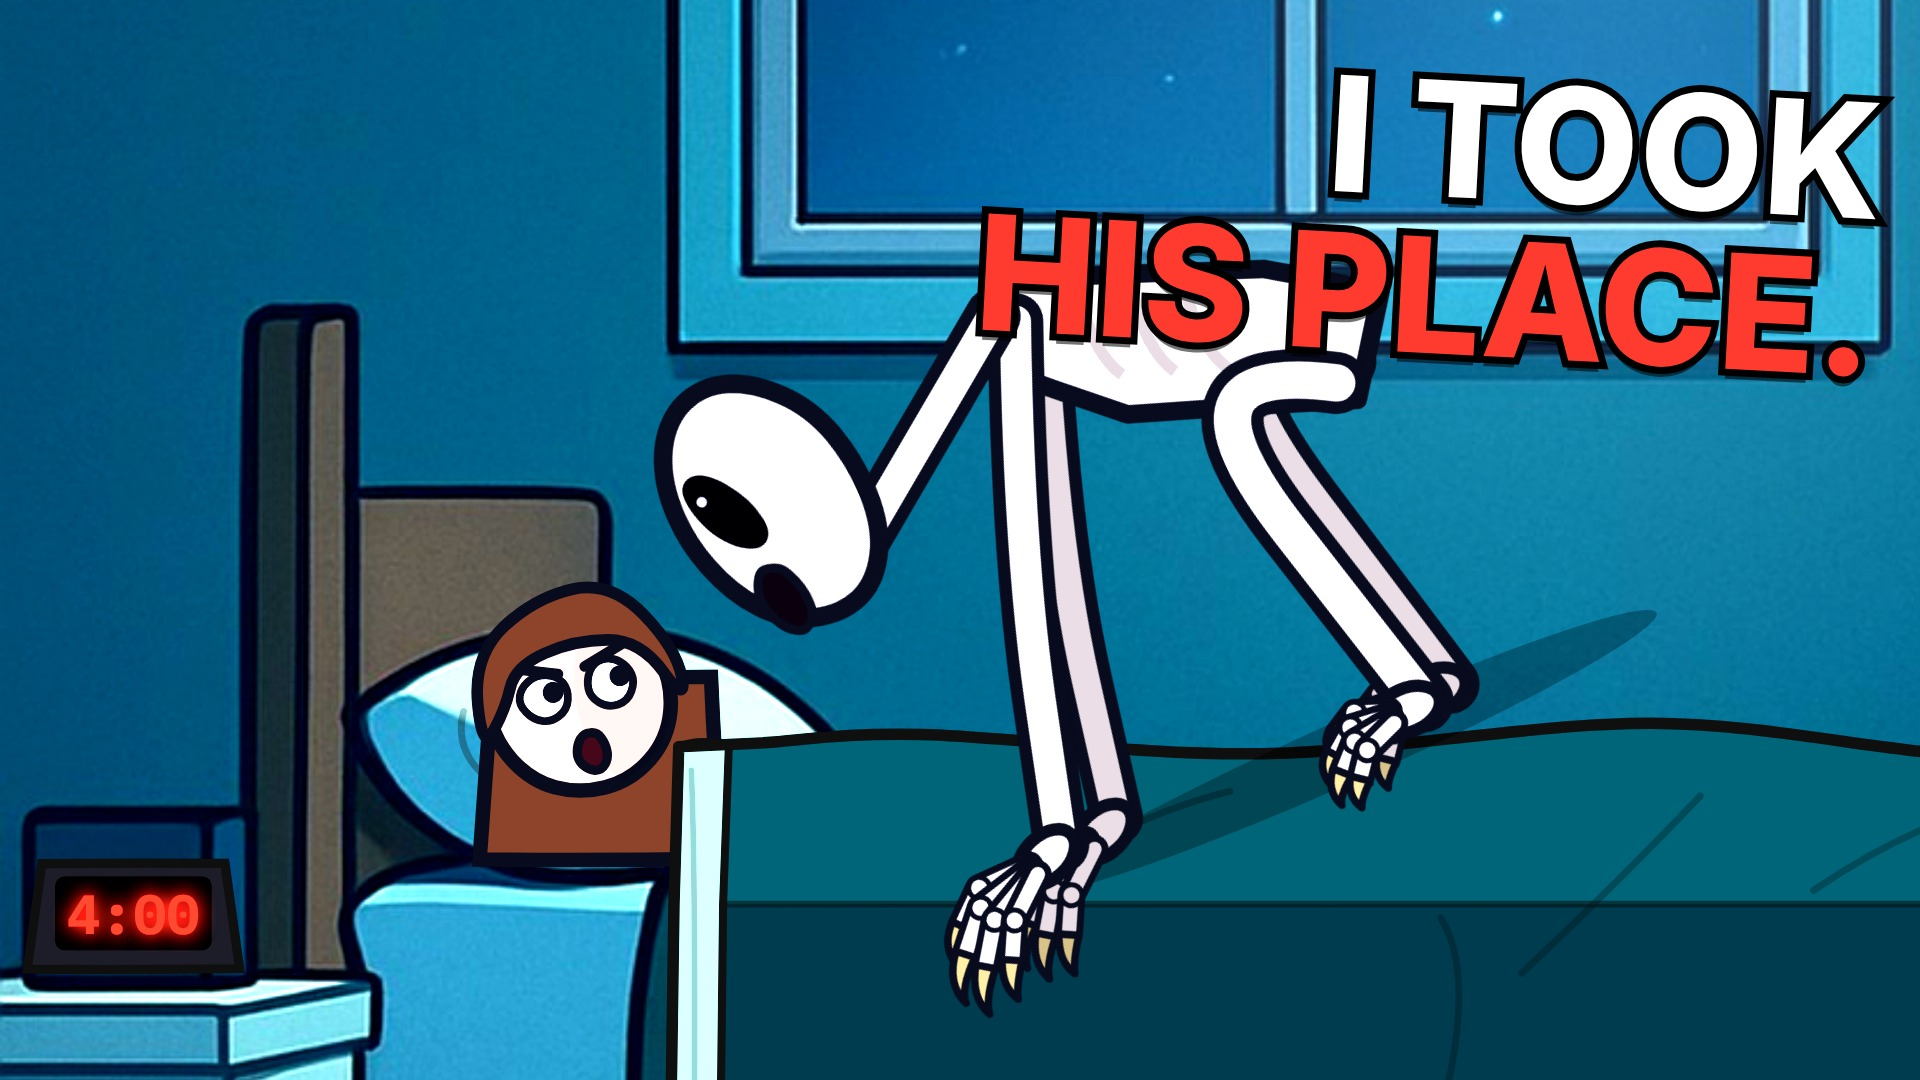
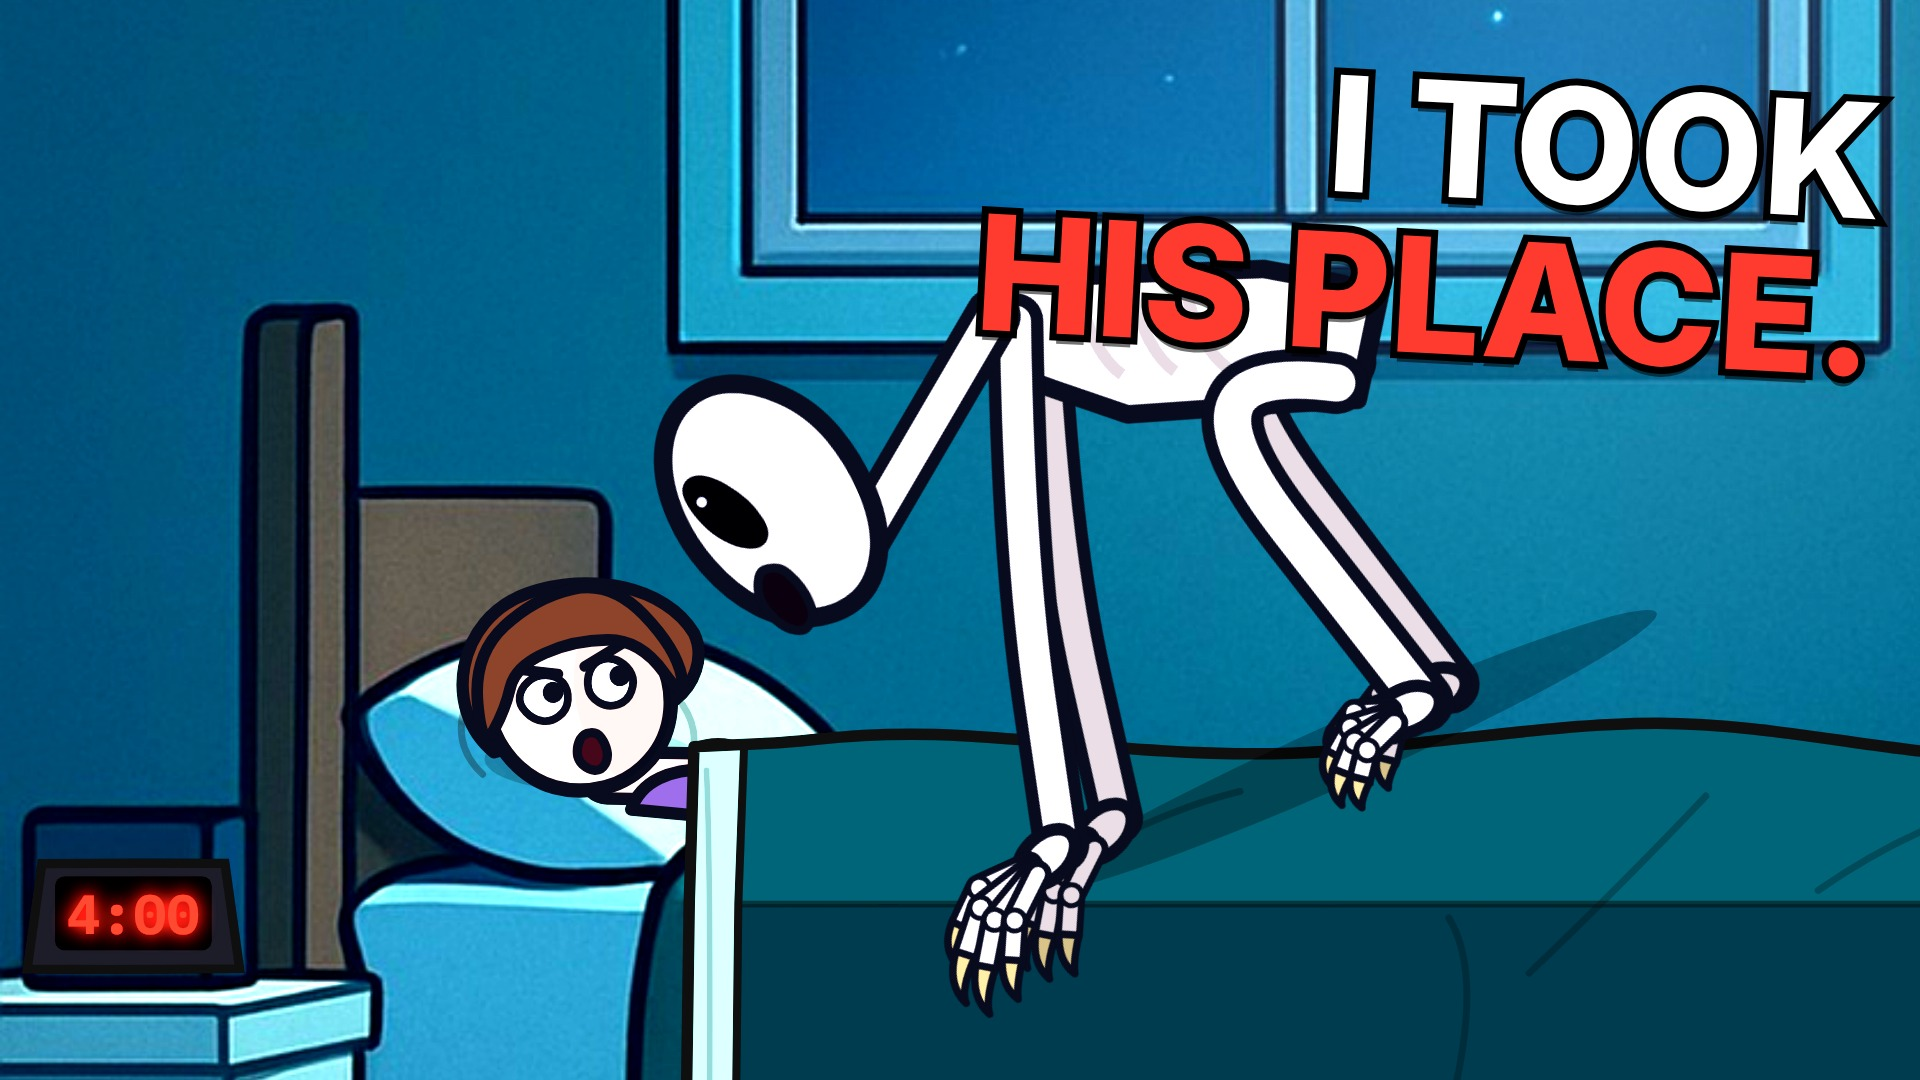
The Rake (stick): sleepers keep only the hair on the head; grown-up Lily shows neck and shoulder
- New StickPerson hairCapOnly: lying on a pillow, no ponytail or hair hanging beside the head
  (Lily's ponytail, Mom's bob sides); the hair on the head is unchanged.
- Grown-up Lily: her long hair is fanned out on the pillow behind her head, and her neck and the
  top of her plum sweater show between her chin and the blanket.

Claude-Session: https://claude.ai/code/session_01HYgoxans3AHT78NQRMkcgm

diff --git a/rake-stick/src/stick/bed.tsx b/rake-stick/src/stick/bed.tsx
@@ -68,11 +68,12 @@ const Neck: React.FC<{a: [number, number]; b: [number, number]; w: number; skin:
 	</g>
 );
 
-/** the sleeper's head on the pillow: the stick figure drawn head-only, so the head and its hair keep their usual
- *  style exactly (nothing is clipped), with no body, arms or legs */
-const PillowHead: React.FC<{is: AnyPerson; px: number; hy: number; s: number; child: boolean; frame: number; p: Record<string, unknown>; id: string; light?: Light}> = ({is: P, px, hy, s, child, frame, p, light}) => (
+/** the sleeper's head on the pillow: the stick figure drawn head-only, so the face and the hair on the head keep their
+ *  usual style. part='front' draws the face with only the hair on the head (no ponytail or hair hanging behind it);
+ *  part='back' draws only the hair hanging behind the head (for long hair kept on the pillow, under the neck). */
+const PillowHead: React.FC<{is: AnyPerson; px: number; hy: number; s: number; child: boolean; frame: number; p: Record<string, unknown>; light?: Light; part?: 'front' | 'back'}> = ({is: P, px, hy, s, child, frame, p, light, part = 'front'}) => (
 	<Tint light={light}>
-		<P x={px} y={hy + 262 * (child ? 0.62 : 1) * s} s={s} frame={frame} tilt={-14} arms="down" noArms headOnly {...p} />
+		<P x={px} y={hy + 262 * (child ? 0.62 : 1) * s} s={s} frame={frame} tilt={-14} arms="down" noArms headOnly hairCapOnly={part === 'front'} hairBackOnly={part === 'back'} {...p} />
 	</Tint>
 );
 
@@ -97,7 +98,11 @@ export const LieInBed: React.FC<{
 	/** false: only the head */
 	blanket?: boolean;
 	dy?: number;
-}> = ({b, is, px, s, child = false, light, frame, p = {}, id, wob = 0, skin = '#f1cfae', blanket = true, dy = 0}) => {
+	/** long hair: spread out on the pillow behind the head, in this colour */
+	longHair?: string;
+	/** show the top of the shoulder (in this shirt colour) between the neck and the blanket */
+	shoulder?: string;
+}> = ({b, is, px, s, child = false, light, frame, p = {}, id, wob = 0, skin = '#f1cfae', blanket = true, dy = 0, longHair, shoulder}) => {
 	const R = 36 * (child ? 1.08 : 1) * s;
 	const hy = b.pillowY - 30 + dy;
 	const hcx = px - 0.24 * R;
@@ -110,7 +115,7 @@ export const LieInBed: React.FC<{
 	const Bs = R * (child ? 1 : 1.45); // body size
 	// the neck leaves the chin and runs (lying down) toward the feet, into the blanket
 	const neckY = hy + 0.86 * R;
-	const xe = px + (child ? 0.67 : 0.8) * R; // the blanket's head end: just past the chin, so only a sliver of neck shows
+	const xe = px + (child ? 0.67 : 0.8) * R + (shoulder ? 0.16 * R : 0); // the blanket's head end: just past the chin, so only a sliver of neck shows (a little more when the shoulder shows)
 	const top0: [number, number] = [xe, neckY - 0.34 * R];
 	const foot = xR - 40;
 	const L = foot - xe;
@@ -148,12 +153,35 @@ export const LieInBed: React.FC<{
 	return (
 		<g>
 			<PillowDent cx={hcx} cy={hcy} R={R} />
+			{longHair ? (
+				<Tint light={light}>
+					{/* long hair fanned out on the pillow, above and behind the head */}
+					<path
+						d={`M${hcx - 0.9 * R},${hcy + 0.55 * R} C${hcx - 1.45 * R},${hcy + 0.1 * R} ${hcx - 1.3 * R},${hcy - 0.85 * R} ${hcx - 0.55 * R},${hcy - 1.12 * R} C${hcx + 0.1 * R},${hcy - 1.35 * R} ${hcx + 0.9 * R},${hcy - 1.2 * R} ${hcx + 1.2 * R},${hcy - 0.7 * R} C${hcx + 1.32 * R},${hcy - 0.45 * R} ${hcx + 1.2 * R},${hcy - 0.15 * R} ${hcx + 1.0 * R},${hcy} Z`}
+						fill={longHair}
+						stroke={INK}
+						strokeWidth={lw}
+						strokeLinejoin="round"
+					/>
+				</Tint>
+			) : null}
 			{blanket ? (
 				<Tint light={light}>
 					<Neck a={[px + 0.05 * R, neckY - 0.04 * R]} b={[xe + 0.25 * R, neckY - 0.02 * R]} w={0.36 * R} skin={skin} lw={lw} />
 				</Tint>
 			) : null}
-			<PillowHead is={is} px={px} hy={hy} s={s} child={child} frame={frame} p={p} id={`${id}_head`} light={light} />
+			{blanket && shoulder ? (
+				<Tint light={light}>
+					<path
+						d={`M${px + 0.3 * R},${neckY + 0.32 * R} C${px + 0.4 * R},${neckY + 0.02 * R} ${xe - 0.25 * R},${neckY - 0.12 * R} ${xe + 0.2 * R},${neckY - 0.1 * R} L${xe + 0.2 * R},${neckY + 0.4 * R} Z`}
+						fill={shoulder}
+						stroke={INK}
+						strokeWidth={lw}
+						strokeLinejoin="round"
+					/>
+				</Tint>
+			) : null}
+			<PillowHead is={is} px={px} hy={hy} s={s} child={child} frame={frame} p={p} light={light} />
 			{blanket ? (
 				<g>
 					<path d={topSurface} fill={b.topCol ?? b.quiltCols[0]} />
@@ -225,11 +253,11 @@ export const ParentsBed: React.FC<{
 			<Tint light={light}>
 				<Neck a={[mx + 0.05 * mR, my + 0.84 * mR]} b={[mx + 0.62 * mR, my + 1.18 * mR]} w={0.36 * mR} skin={momSkin} lw={6} />
 			</Tint>
-			<PillowHead is={mom} px={mx} hy={my} s={1.3} child={false} frame={frame} p={momP} id="pbMom" light={light} />
+			<PillowHead is={mom} px={mx} hy={my} s={1.3} child={false} frame={frame} p={momP} light={light} />
 			<Tint light={light}>
 				<Neck a={[lx + 0.05 * lR, ly + 0.84 * lR]} b={[lx + 0.55 * lR, ly + 1.12 * lR]} w={0.36 * lR} skin={lilySkin} lw={7} />
 			</Tint>
-			<PillowHead is={lily} px={lx} hy={ly} s={1.6} child frame={frame} p={lilyP} id="pbLily" light={light} />
+			<PillowHead is={lily} px={lx} hy={ly} s={1.6} child frame={frame} p={lilyP} light={light} />
 			{/* the sheet turned down along the quilt's top edge, over both necks */}
 			<path d={sheetD} fill={SHEET} />
 			<path d={`M${sheetTop[0][0]},${sheetTop[0][1]}${smoothThrough(sheetTop)}`} fill="none" stroke={INK} strokeWidth={4.5} strokeLinecap="round" />

diff --git a/rake-stick/src/components/characters/StickPerson.tsx b/rake-stick/src/components/characters/StickPerson.tsx
@@ -131,6 +131,10 @@ export interface StickProps {
 	noArms?: boolean;
 	/** draw only the head with its full hair - no body, arms, legs or shadow (a sleeper whose body is under a blanket) */
 	headOnly?: boolean;
+	/** only the hair on the head itself: no ponytail or hair hanging behind the head (a sleeper on a pillow) */
+	hairCapOnly?: boolean;
+	/** with headOnly: draw ONLY the hair hanging behind the head (so a neck can be drawn between it and the face) */
+	hairBackOnly?: boolean;
 }
 
 const INK = '#141414';
@@ -775,6 +779,7 @@ export const StickPerson: React.FC<StickProps> = (p) => {
 	);
 	const farArm = side && walking;
 	const lapArms = (sitting && !back && (p.arms === undefined || p.arms === 'folded' || p.arms === 'lap')) || (floor && !back);
+	if (p.hairCapOnly) hairBack.length = 0;
 	const backArms = p.noArms ? [] : back || farArm ? (farArm ? [armEl(L, 0, true)] : [armEl(L, 0), armEl(R, 1)]) : [];
 	const frontArms = p.noArms || back ? [] : farArm ? [armEl(R, 1)] : [armEl(L, 0), armEl(R, 1)];
 
@@ -970,6 +975,12 @@ export const StickPerson: React.FC<StickProps> = (p) => {
 		</g>
 	);
 
+	if (p.headOnly && p.hairBackOnly)
+		return (
+			<g transform={`translate(${x},${y}) scale(${flip ? -s : s},${s})`} opacity={opacity}>
+				<g transform={`rotate(${bodyRot} 0 ${hipY})`}>{hairBack}</g>
+			</g>
+		);
 	if (p.headOnly)
 		return (
 			<g transform={`translate(${x},${y}) scale(${flip ? -s : s},${s})`} opacity={opacity}>

diff --git a/rake-stick/src/scenes/LastNight.tsx b/rake-stick/src/scenes/LastNight.tsx
@@ -70,7 +70,7 @@ export const LastNight: React.FC = () => {
 		const lilyP = {eyes: 'wide', brows: close ? 'angry' : 'worried', mouth: t > at('face') ? 'o' : 'flat', look: coming ? [1, -0.4] : [0.6, -0.8], idle: t < t48};
 		// the blanket at her feet presses down and moves
 		const press = s.tag === 'climb' && t < t49 + 0.5 ? Math.sin((t - t48) * 7) * 5 * ramp(t, t48 + 0.3, t48 + 0.8) : 0;
-		const her = <LieInBed b={SB} is={LilyAdult} px={262} s={1.15} frame={f} id="lily" skin={PAL.lilyAdult.skin} wob={press} p={lilyP} />;
+		const her = <LieInBed b={SB} is={LilyAdult} px={262} s={1.15} frame={f} id="lily" skin={PAL.lilyAdult.skin} longHair={PAL.lilyAdult.hair} shoulder={PAL.lilyAdult.shirt} wob={press} p={lilyP} />;
 		if (s.tag !== 'climb') return <g>{moon}{clock}{her}</g>;
 		// it rises at the foot of the bed, climbs on, and crawls up the length of the bed to her face
 		const rise = ramp(t, T('narrator_048_blanket', 0.55), T('narrator_049_climbed', 0.12));

diff --git a/rake-stick/src/dev/Thumbs.tsx b/rake-stick/src/dev/Thumbs.tsx
@@ -68,7 +68,7 @@ export const Thumb: React.FC<{v: 'A' | 'B' | 'C'}> = ({v}) => {
 				<Stage set="sonroom_night" z={2.3} f={[400, 600]} t={0}>
 					<Glow cx={720} cy={300} r={460} color="#a9d2e6" k={0.45} />
 					<BedClock x={GEO.sonRoom.clock[0]} y={GEO.sonRoom.clock[1]} text="4:00" frame={0} />
-					<LieInBed b={SB} is={LilyAdult} px={262} s={1.15} frame={0} id="thC" skin={PAL.lilyAdult.skin} p={{eyes: 'wide', brows: 'angry', mouth: 'o', look: [1, -0.4], idle: false}} />
+					<LieInBed b={SB} is={LilyAdult} px={262} s={1.15} frame={0} id="thC" skin={PAL.lilyAdult.skin} longHair={PAL.lilyAdult.hair} shoulder={PAL.lilyAdult.shirt} p={{eyes: 'wide', brows: 'angry', mouth: 'o', look: [1, -0.4], idle: false}} />
 					<g transform={`rotate(-24 620 ${SB.quilt - 30})`}>
 						<Rake x={580} y={SB.quilt - 30} s={1.35} frame={5} pose="side" dir={-1} lean={1} mouth={0.5} qa={false} />
 					</g>
